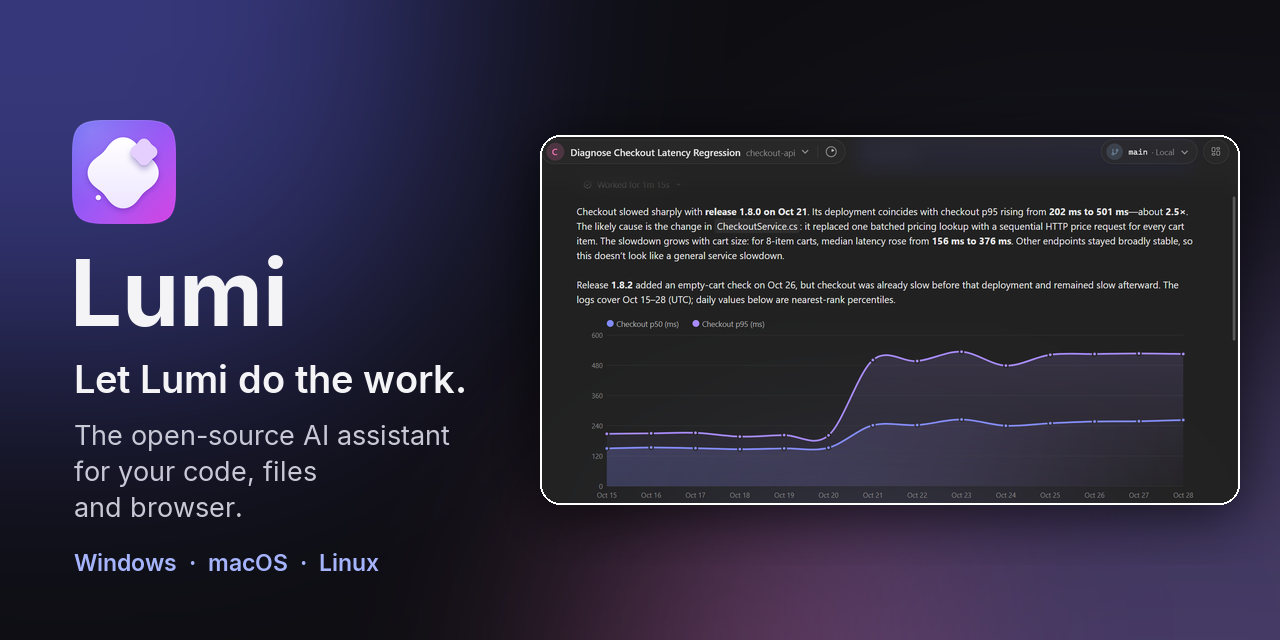
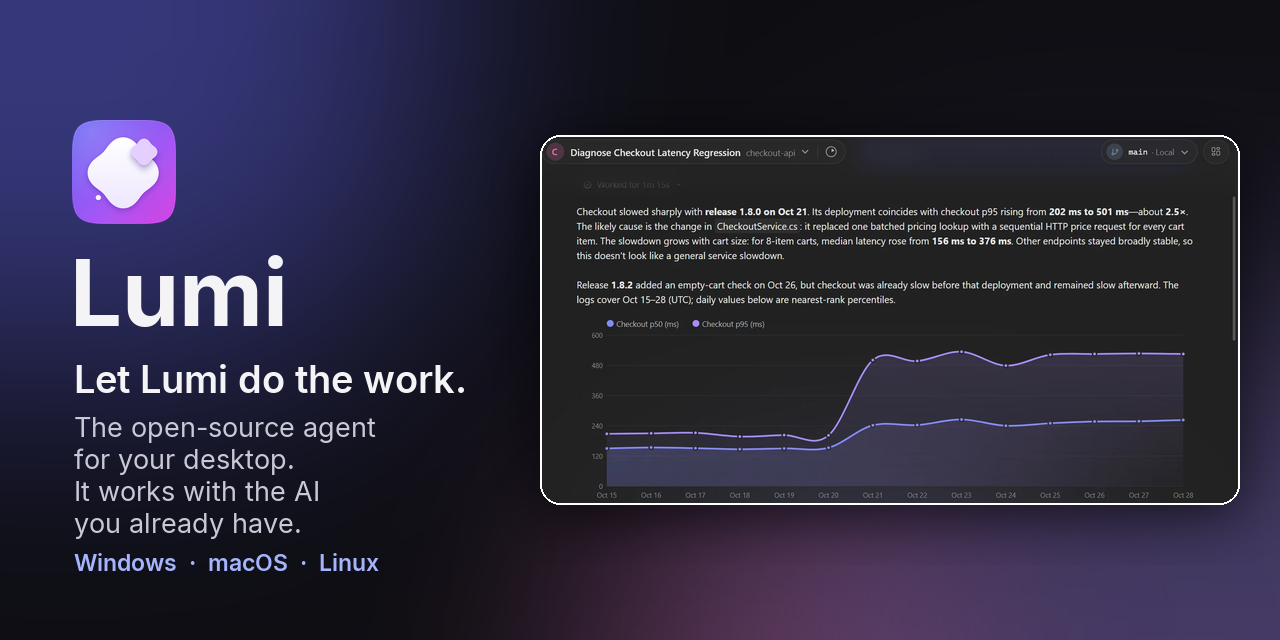
Update Lumi site to desktop agent positioning
Emphasize the AI account visitors already have, refresh social metadata and image, and keep the local hero playback check compatible with the production CSP.

Copilot-Session: 8ccc4881-9e30-4a40-9012-145eb45182fd

Changed region(s): [[0.0625, 0.6562, 0.3438, 0.8438]]

diff --git a/site/index.html b/site/index.html
@@ -3,8 +3,8 @@
 <head>
   <meta charset="utf-8">
   <meta name="viewport" content="width=device-width, initial-scale=1">
-  <title>Lumi — open-source AI assistant for your code, files and browser</title>
-  <meta name="description" content="Let Lumi do the work. Lumi is a free, open-source AI assistant for your code, files and browser, native on Windows, macOS and Linux. Bring the AI account you already have.">
+  <title>Lumi — open-source agent for your desktop</title>
+  <meta name="description" content="Lumi is the open-source agent for your desktop. It works with the AI you already have. Native on Windows, macOS and Linux.">
   <meta name="color-scheme" content="dark light">
   <meta name="theme-color" content="#0e0e12" media="(prefers-color-scheme: dark)">
   <meta name="theme-color" content="#f6f6f9" media="(prefers-color-scheme: light)">
@@ -19,15 +19,15 @@
 
   <meta property="og:type" content="website">
   <meta property="og:site_name" content="Lumi">
-  <meta property="og:title" content="Lumi — open-source AI assistant for your code, files and browser">
-  <meta property="og:description" content="Let Lumi do the work. Free and open source, native on Windows, macOS and Linux, built with C# and Avalonia. Bring the AI account you already have.">
+  <meta property="og:title" content="Lumi — open-source agent for your desktop">
+  <meta property="og:description" content="Lumi is the open-source agent for your desktop. It works with the AI you already have. Native on Windows, macOS and Linux.">
   <meta property="og:image:width" content="1280">
   <meta property="og:image:height" content="640">
-  <meta property="og:image:alt" content="Lumi's chat window with an answer that charts a checkout slowdown it traced through a project's logs and git history, next to the Lumi icon and the words: Let Lumi do the work. The open-source AI assistant for your code, files and browser.">
+  <meta property="og:image:alt" content="Lumi's chat window charting a checkout slowdown it traced through a project's logs and git history, next to the Lumi icon and the words: Let Lumi do the work. The open-source agent for your desktop. It works with the AI you already have.">
   <meta name="twitter:card" content="summary_large_image">
-  <meta name="twitter:title" content="Lumi — open-source AI assistant for your code, files and browser">
-  <meta name="twitter:description" content="Let Lumi do the work. Free and open source, native on Windows, macOS and Linux, built with C# and Avalonia.">
-  <meta name="twitter:image:alt" content="Lumi's chat window charting a checkout slowdown it traced through a project's logs and git history.">
+  <meta name="twitter:title" content="Lumi — open-source agent for your desktop">
+  <meta name="twitter:description" content="Lumi is the open-source agent for your desktop. It works with the AI you already have. Native on Windows, macOS and Linux.">
+  <meta name="twitter:image:alt" content="Lumi's chat window charting a checkout slowdown it traced through a project's logs and git history, next to the Lumi icon and the words: Let Lumi do the work. The open-source agent for your desktop. It works with the AI you already have.">
 
   <link rel="icon" href="assets/icons/favicon.ico" sizes="48x48">
   <link rel="icon" href="assets/icons/favicon-32.png" type="image/png" sizes="32x32">
@@ -108,7 +108,8 @@
           <span>Lumi</span>
         </h1>
         <p class="tagline">Let Lumi do the work.</p>
-        <p class="lead">An open-source AI assistant that works with your code, your files and your browser. Native on Windows, macOS and Linux, built with C# and <a href="https://avaloniaui.net/">Avalonia</a>.</p>
+        <p class="lead">Lumi is the open-source agent for your desktop. It works with the AI you already have.</p>
+        <p class="hero-accounts">A ChatGPT plan, GitHub Copilot, local models and more. <a href="#accounts">See AI options</a>.</p>
 
         <div class="cta-row">
           <a class="btn btn-primary" href="#download" data-download-primary>
@@ -126,7 +127,7 @@
           <a href="#download-phone" data-platform="phone">Phone</a>
         </nav>
 
-        <p class="requirements">Runs on Windows and Linux (x64 or ARM64) and macOS (Apple silicon or Intel). Bring an AI account: GitHub Copilot, a ChatGPT plan, an API key or a local model.</p>
+        <p class="requirements">Native on Windows and Linux (x64 or ARM64) and macOS (Apple silicon or Intel), built with C# and <a href="https://avaloniaui.net/">Avalonia</a>.</p>
       </div>
 
       <div class="container hero-shot-wrap">
@@ -237,7 +238,7 @@
       <div class="container accounts-grid">
         <div class="accounts-copy reveal">
           <p class="kicker">AI accounts and cost</p>
-          <h2 id="accounts-title">A free app. Your AI account.</h2>
+          <h2 id="accounts-title">Works with the AI you already have.</h2>
           <p>Lumi is free and open source under the MIT license. The AI comes from the account you connect, and that provider's plans, limits and charges apply.</p>
           <ul class="routes" role="list">
             <li><strong>GitHub Copilot</strong> <span>Built in. Models and limits follow your Copilot plan.</span></li>
@@ -337,7 +338,7 @@
           </details>
           <details>
             <summary>Which AI accounts can I use?</summary>
-            <p>GitHub Copilot is built in. You can also sign in with an eligible ChatGPT plan, add API providers such as OpenRouter or Microsoft Foundry, or run local models with Ollama or LM Studio. Whichever model you pick, the GitHub Copilot SDK runtime runs the agent.</p>
+            <p>GitHub Copilot is built in. You can also sign in with an eligible ChatGPT plan, add API providers such as OpenRouter or Microsoft Foundry, or run local models with Ollama or LM Studio and a model that supports tools. Whichever model you pick, the GitHub Copilot SDK runtime runs the agent.</p>
           </details>
           <details>
             <summary>What can Lumi do on my computer, and how do approvals work?</summary>

diff --git a/site/styles.css b/site/styles.css
@@ -444,7 +444,15 @@ p {
   text-wrap: balance;
 }
 
-.lead a {
+.hero-accounts {
+  max-width: 720px;
+  margin-top: 12px;
+  color: var(--text-on-glow);
+  font-size: 17px;
+  text-wrap: balance;
+}
+
+.hero-accounts a {
   color: inherit;
 }
 

diff --git a/tools/capture/build_stills.py b/tools/capture/build_stills.py
@@ -3,18 +3,31 @@
 usage: python tools/capture/build_stills.py <dark_loop_dir> <light_loop_dir> <lumi_repo>
   *_loop_dir  frame folders written by make_loop.py (00001.jpg is the still)
   lumi_repo   a checkout of adirh3/Lumi, for the Inter fonts and the app icon
+       python tools/capture/build_stills.py --og-only <lumi_repo>
+  --og-only   rebuild only the social image, using the existing 1980-wide dark hero still
 """
-import sys
+import argparse
 from pathlib import Path
 
 from PIL import Image, ImageDraw, ImageFilter, ImageFont
 
-if len(sys.argv) < 4:
-    sys.exit(__doc__)
-REPO = Path(sys.argv[3])
+parser = argparse.ArgumentParser(description=__doc__, formatter_class=argparse.RawDescriptionHelpFormatter)
+parser.add_argument("dark_loop_dir", type=Path, nargs="?")
+parser.add_argument("light_loop_dir", type=Path, nargs="?")
+parser.add_argument("lumi_repo", type=Path, nargs="?")
+parser.add_argument("--og-only", type=Path, metavar="lumi_repo", help="rebuild only the social image from the saved hero still")
+args = parser.parse_args()
+paths = (args.dark_loop_dir, args.light_loop_dir, args.lumi_repo)
+if args.og_only:
+    if any(paths):
+        parser.error("--og-only cannot be combined with loop folders or a positional lumi_repo")
+elif not all(paths):
+    parser.error("provide dark_loop_dir, light_loop_dir and lumi_repo, or --og-only lumi_repo")
+
+REPO = args.og_only or args.lumi_repo
 SITE = Path(__file__).resolve().parents[2] / "site"
 IMG = SITE / "assets" / "img"
-LOOPS = {"dark": Path(sys.argv[1]), "light": Path(sys.argv[2])}
+LOOPS = {"dark": args.dark_loop_dir, "light": args.light_loop_dir}
 
 
 def rounded(im, radius):
@@ -59,7 +72,8 @@ def build_og():
     glow(canvas, (760, 660), 300, (244, 114, 182), 60)
 
     # The chat area of the loop's first frame: the header, the answer and its chart.
-    frame = Image.open(LOOPS["dark"] / "00001.jpg").convert("RGB")
+    source = IMG / "hero-dark-1980.webp" if args.og_only else LOOPS["dark"] / "00001.jpg"
+    frame = Image.open(source).convert("RGB")
     shot = frame.crop((436, 64, 1966, 872))
     shot = shot.resize((700, round(shot.height * 700 / shot.width)), Image.LANCZOS)
     shot = rounded(shot, 20)
@@ -83,10 +97,10 @@ def build_og():
     tagline = ImageFont.truetype(str(fonts / "Inter-SemiBold.ttf"), size)
     d.text((74, 356), "Let Lumi do the work.", font=tagline, fill=(244, 244, 247, 255))
     small = ImageFont.truetype(str(fonts / "Inter-Regular.ttf"), 27)
-    y = 418
-    for line in ("The open-source AI assistant", "for your code, files", "and browser."):
+    y = 410
+    for line in ("The open-source agent", "for your desktop.", "It works with the AI", "you already have."):
         d.text((74, y), line, font=small, fill=(200, 200, 214, 255))
-        y += 36
+        y += 32
     d.text((74, 548), "Windows  ·  macOS  ·  Linux", font=semi, fill=(165, 180, 252, 255))
 
     og = canvas.convert("RGB")
@@ -96,6 +110,7 @@ def build_og():
 
 
 if __name__ == "__main__":
-    for line in build_stills():
-        print(line)
+    if not args.og_only:
+        for line in build_stills():
+            print(line)
     print(build_og())

diff --git a/tools/validate.py b/tools/validate.py
@@ -15,7 +15,7 @@ from pathlib import Path
 from urllib.parse import urlparse
 
 from axe_playwright_python.sync_playwright import Axe
-from playwright.sync_api import sync_playwright
+from playwright.sync_api import TimeoutError, sync_playwright
 
 ROOT = Path(__file__).resolve().parents[1]
 URL = next((a for a in sys.argv[1:] if not a.startswith("--")), "http://127.0.0.1:8781/")
@@ -63,9 +63,10 @@ with sync_playwright() as p:
         no_alt = page.evaluate("[...document.images].filter(i => !i.hasAttribute('alt')).map(i => i.src)")
         page.locator("[data-hero-loop]").scroll_into_view_if_needed()
         try:
-            page.wait_for_function("document.querySelector('[data-hero-loop]').classList.contains('is-playing')", timeout=8000)
+            # Selector waits work under the production CSP without unsafe-eval.
+            page.locator("[data-hero-loop].is-playing").wait_for(state="visible", timeout=8000)
             playing = page.evaluate("(() => { const v = document.querySelector('[data-hero-loop] video'); return !!v && !v.paused; })()")
-        except Exception:
+        except TimeoutError:
             playing = False
         if SHOTS:
             page.evaluate(REVEAL_ALL)

diff --git a/tools/capture/README.md b/tools/capture/README.md
@@ -88,6 +88,10 @@ the launchpad, and plays the work and the answer sped up. Dark and light are two
    ```
    Update the hero's `alt` text in `index.html` if the answers' facts changed (it describes both themes), then
    follow AGENTS.md: validate, scan with `--ocr`, commit, deploy.
+   For a social-image copy change without new captures, use
+   `python tools/capture/build_stills.py --og-only <lumi repo>`. It reuses the existing dark hero still, leaves the
+   hero media untouched and keeps the social image at 1280x640. Update the image alt text in `index.html` to match.
+   GitHub social previews are separate uploads: re-upload the image there if it was used previously.
 7. **Clean up:** stop your Lumi by PID (`stage_window.py $hwnd park` first if you keep it), and delete the takes,
    loops, samples and profiles.
 
@@ -103,7 +107,7 @@ crop; `--crop=x0,y0,x1,y1` overrides it). Update the image's `alt` text in `inde
 | `files` | Your files, documents and the web. | On the launchpad, open "October expenses from receipts" (`ui_do` click on it), then `scroll #PART_TranscriptScroll edge=top` |
 | `customize` | Shape it around how you work. | `click_control #NavCustomize`, then `click_control #CustomizeSkillsTab` |
 | `phone` | Check in from your phone. | The mobile app's design preview, below |
-| `accounts` | A free app. Your AI account. | `click_control #NavSettings`, `set_property #SettingsPagesList SelectedIndex 6` (AI & Models), `click_control #AddAiAccountButton`; close it afterwards with `set_property #EasyConnectDialog IsDialogOpen false` |
+| `accounts` | Works with the AI you already have. | `click_control #NavSettings`, `set_property #SettingsPagesList SelectedIndex 6` (AI & Models), `click_control #AddAiAccountButton`; close it afterwards with `set_property #EasyConnectDialog IsDialogOpen false` |
 
 **work:** in a new chat in weather-cli (`set_property #Composer ProjectName "weather-cli"`), send with
 `input_text #Composer` and `pressEnter: true`:

diff --git a/AGENTS.md b/AGENTS.md
@@ -45,8 +45,9 @@ tools/                        checks (validate, check_deploy, scan_public), imag
   notes. Calm, confident and concise; no hype.
 - No invented numbers, testimonials, logos, "first/only" claims or performance comparisons. No Microsoft affiliation
   or endorsement. Don't mention colleagues' use.
-- Wording: the app is **Lumi** (never "LetLumi"), "an open-source AI assistant" (as in Lumi's README), and the
-  tagline is **"Let Lumi do the work."** (it matches letlumi.com).
+- Wording: the app is **Lumi** (never "LetLumi"). Define it as **"Lumi is the open-source agent for your desktop.
+  It works with the AI you already have."** Use "agent", not "assistant" or "workspace", as the product category.
+  The tagline is **"Let Lumi do the work."** (it matches letlumi.com).
 - Cost honesty: Lumi is free and open source (MIT); the AI comes from the account the user connects (GitHub Copilot,
   a ChatGPT plan, API providers, local models), with that provider's plans, limits and charges. Never imply free AI.
 - Approvals: Full access is the default, Ask first is available, and approval isn't a sandbox. The phone is a
